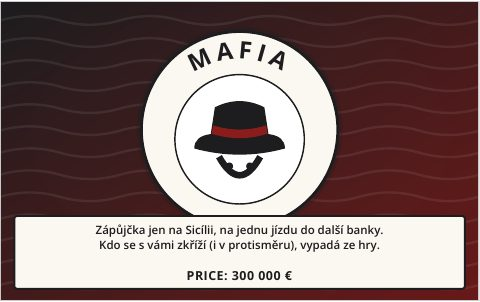
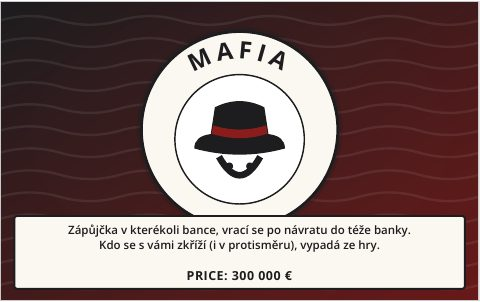
Add files via upload

Changed region(s): [[0.125, 0.745, 0.875, 0.7748]]

diff --git a/index.html b/index.html
@@ -5,6 +5,8 @@
 <meta name="viewport" content="width=device-width,initial-scale=1,viewport-fit=cover">
 <meta name="description" content="Italia – Explore with all senses. Desková hra pro 2–6 hráčů: pochutiny, vína a pamětihodnosti Itálie.">
 <meta name="theme-color" content="#14203b">
+<meta http-equiv="Cache-Control" content="no-cache, no-store, must-revalidate">
+<meta http-equiv="Pragma" content="no-cache">
 <meta name="apple-mobile-web-app-capable" content="yes">
 <meta name="mobile-web-app-capable" content="yes">
 <meta name="apple-mobile-web-app-status-bar-style" content="black-translucent">
@@ -427,7 +429,7 @@ label.fl input{border:2px solid var(--paper-3);border-radius:8px;padding:9px;fon
   const COLORS = [
     { id: 'blue', name: 'Modrá', hex: '#1f6fd1' }, { id: 'red', name: 'Červená', hex: '#d62828' },
     { id: 'green', name: 'Zelená', hex: '#2a9d3c' }, { id: 'yellow', name: 'Žlutá', hex: '#f2c418' },
-    { id: 'black', name: 'Černá', hex: '#1d1d1f' }, { id: 'purple', name: 'Fialová', hex: '#7b3fb8' }];
+    { id: 'grey', name: 'Šedá', hex: '#8e959c' }, { id: 'purple', name: 'Fialová', hex: '#a66ad8' }];
   const CARDS = {
     lodni: { name: 'Lodní linky', price: 50000, desc: 'Plavba trvá 1 krok místo 5. V cizím přístavu nemusíte na ostrov.' },
     aero: { name: 'Aerolinky', price: 50000, desc: 'Let trvá 1 krok místo 5. Na cizím letišti nemusíte na ostrov.' },
@@ -439,7 +441,7 @@ label.fl input{border:2px solid var(--paper-3);border-radius:8px;padding:9px;fon
     lklub: { name: 'Labužnický klub', price: 50000, club: 'G', desc: 'Umístíte na svou pochutinu. V bance Milano dostanete navíc 15 000 €. Kdo na políčku klubu zastaví, tomu vyplatíte 1 000 € za každou jeho pochutinu.' },
     sklub: { name: 'Someliérský klub', price: 50000, club: 'R', desc: 'Umístíte na své víno. V bance Ancona dostanete navíc 15 000 €. Kdo na políčku klubu zastaví, tomu vyplatíte 1 000 € za každé jeho víno.' },
     cklub: { name: 'Cestovatelský klub', price: 50000, club: 'W', desc: 'Umístíte na svou pamětihodnost. V bance Roma dostanete navíc 15 000 €. Kdo na políčku klubu zastaví, tomu vyplatíte 1 000 € za každou jeho pamětihodnost.' },
-    mafia: { name: 'Mafia', price: 300000, rent: true, desc: 'Zápůjčka jen na Sicílii, na jednu jízdu do další banky. Koho na trase potkáte, vypadá ze hry.' },
+    mafia: { name: 'Mafia', price: 300000, rent: true, desc: 'Zapůjčíte si ji v kterékoli bance na začátku tahu a vrací se, až se vrátíte do téže banky. Koho na trase potkáte (i v protisměru), vypadá ze hry.' },
   };
   const KIND_CARD = { W: 'pruvodce', R: 'somelier', G: 'labuznik' };
   const DICE_FEE = { 1: 5000, 2: 0, 3: 10000 };
@@ -619,7 +621,7 @@ label.fl input{border:2px solid var(--paper-3);border-radius:8px;padding:9px;fon
       if (r.base) pay(g, -1, p.i, r.base, `výplata v bance ${t.n}` + (r.mult ? ' (vč. násobků)' : ''));
       r.clubs.forEach(c => pay(g, -1, p.i, CLUB_BONUS, CARDS[c].name));
       if (!r.sum) log(g, `${p.name} je v bance ${t.n}, zatím bez výplaty.`);
-      if (p.mafia) { p.mafia = false; delete g.cards.mafia; log(g, `Mafia hráče ${p.name} se vrací.`); }
+      if (p.mafia && p.mafiaBank === i) { p.mafia = false; p.mafiaBank = null; delete g.cards.mafia; log(g, `${p.name} se vrátil do banky ${t.n} – Mafia se vrací.`); }
     } else if ((t.t === 'ship' || t.t === 'plane') && !p.train) {
       const c = t.t === 'ship' ? 'lodni' : 'aero', o = g.cards[c];
       if (o != null && o !== p.i && P(g, o).alive) pay(g, p.i, o, LINK_STOP, `zastavení na lince (${CARDS[c].name})`);
@@ -742,7 +744,7 @@ label.fl input{border:2px solid var(--paper-3);border-radius:8px;padding:9px;fon
       const def = CARDS[c];
       if (g.cards[c] != null) return;
       if (c === 'mafia') {
-        if (T[p.pos].loop !== 'sic' || g.phase !== 'turn' || p.mafia) return;
+        if (T[p.pos].t !== 'B' || g.phase !== 'turn' || p.mafia) return;
       }
       res.push({ c, name: def.name, price: def.price, can: p.cash >= def.price });
     });
@@ -752,10 +754,10 @@ label.fl input{border:2px solid var(--paper-3);border-radius:8px;padding:9px;fon
     const p = P(g, i), def = CARDS[c];
     if (g.cards[c] != null || p.cash < def.price) return false;
     if (def.club && (tile == null || g.own[tile] !== i || T[tile].t !== def.club)) return false;
-    if (c === 'mafia' && (T[p.pos].loop !== 'sic' || g.phase !== 'turn')) return false;
+    if (c === 'mafia' && (T[p.pos].t !== 'B' || g.phase !== 'turn')) return false;
     p.cash -= def.price; g.cards[c] = i;
     g.anim.push({ pay: true, from: i, to: -1, amt: def.price, why: def.name });
-    if (c === 'mafia') { p.mafia = true; log(g, `${p.name} si najímá Mafii za ${fmt(def.price)}! Platí do příští banky.`); }
+    if (c === 'mafia') { p.mafia = true; p.mafiaBank = p.pos; log(g, `${p.name} si v bance ${T[p.pos].n} najímá Mafii za ${fmt(def.price)}! Vrací se po návratu do téže banky.`); }
     else log(g, `${p.name} kupuje kartu ${def.name} za ${fmt(def.price)}.`);
     if (def.club) placeClub(g, i, c, tile);
     return true;
@@ -779,7 +781,7 @@ label.fl input{border:2px solid var(--paper-3);border-radius:8px;padding:9px;fon
   }
   function eliminate(g, i, why) {
     const p = P(g, i); if (!p.alive) return;
-    p.alive = false; p.mafia = false;
+    p.alive = false; p.mafia = false; p.mafiaBank = null;
     Object.keys(g.own).forEach(k => { if (g.own[k] === i) delete g.own[k]; });
     Object.keys(g.cards).forEach(c => { if (g.cards[c] === i) delete g.cards[c]; });
     fixClubs(g);
@@ -922,10 +924,19 @@ label.fl input{border:2px solid var(--paper-3);border-radius:8px;padding:9px;fon
     }
     let v = P(g, i).cash - before;
     if (!P(g, i).alive) return -1e9;
+    v += (g0.players.filter(q => q.alive).length - g.players.filter(q => q.alive).length) * 60000;   // Mafie vyřadila soupeře
     if (g.phase === 'buy' && g.cur === i) v += deep ? buyValue(g, i, g.offer) : 2500;
     const pos = P(g, i).pos;
     if (deep && T[pos] && T[pos].t === 'B') v += 500;
     return v;
+  }
+  // těžká úroveň: Mafii si najme, když nejbohatší soupeř je nablízku nebo ho výrazně předbíhá
+  function mafiaWorth(g, p) {
+    const opp = g.players.filter(q => q.alive && q.i !== p.i);
+    if (!opp.length) return false;
+    const leader = opp.reduce((a, b) => worth(g, a.i) > worth(g, b.i) ? a : b);
+    const near = opp.some(q => q.pos >= 0 && T[q.pos].loop === T[p.pos].loop && T[q.pos].t !== 'B');
+    return worth(g, leader.i) > worth(g, p.i) * 0.8 || near || Math.random() < 0.35;
   }
   function aiCards(g, p) {
     const L = lvl(p), own = k => kindCount(g, p.i, k);
@@ -939,7 +950,7 @@ label.fl input{border:2px solid var(--paper-3);border-radius:8px;padding:9px;fon
         else if (o.c === 'provincie' && regions >= 2 && spare > 15000) buyCard(g, p.i, o.c);
         else if (o.c === 'treni' && spare > 60000) buyCard(g, p.i, o.c);
         else if ((o.c === 'lodni' || o.c === 'aero') && spare > 80000) buyCard(g, p.i, o.c);
-        else if (o.c === 'mafia' && spare > 80000 && g.players.filter(q => q.alive).length > 2 && Math.random() < 0.3) buyCard(g, p.i, o.c);
+        else if (o.c === 'mafia' && spare >= 10000 && mafiaWorth(g, p)) buyCard(g, p.i, o.c);
       } else {
         const r = L === 1 ? 1.4 : 1;   // snadná kupuje později
         if (def.kind && own(def.kind) >= 6 && spare > 20000 * r) buyCard(g, p.i, o.c);
@@ -947,7 +958,7 @@ label.fl input{border:2px solid var(--paper-3);border-radius:8px;padding:9px;fon
         else if (o.c === 'provincie' && regions >= 2 && spare > 25000 * r) buyCard(g, p.i, o.c);
         else if (o.c === 'treni' && spare > 80000 * r) buyCard(g, p.i, o.c);
         else if ((o.c === 'lodni' || o.c === 'aero') && spare > 120000 * r) buyCard(g, p.i, o.c);
-        else if (o.c === 'mafia' && spare > 60000 && g.players.filter(q => q.alive).length > 2 && Math.random() < (L === 1 ? 0.6 : 0.4)) buyCard(g, p.i, o.c);
+        else if (o.c === 'mafia' && spare > (L === 1 ? 60000 : 30000) && Math.random() < (L === 1 ? 0.5 : 0.4)) buyCard(g, p.i, o.c);
       }
     }
     Object.keys(g.cards).forEach(c => { if (g.cards[c] === p.i && CARDS[c].club && !clubValid(g, c)) { const ts = clubTiles(g, p.i, c).sort((a, b) => T[b].price - T[a].price); if (ts.length) placeClub(g, p.i, c, ts[0]); } });
@@ -999,10 +1010,10 @@ label.fl input{border:2px solid var(--paper-3);border-radius:8px;padding:9px;fon
 <script>
 (function(){
 const E=window.ITALIA, D=E.D, T=E.T, NS="http://www.w3.org/2000/svg";
-const PCOL={blue:"#1f6fd1",red:"#d62828",green:"#2a9d3c",yellow:"#f2c418",black:"#1d1d1f",purple:"#7b3fb8"};
-const TRAILCOL={yellow:"#d4a800",black:"#3c3c40"};
-const CN={blue:"modrá",red:"červená",green:"zelená",yellow:"žlutá",black:"černá",purple:"fialová"};
-const ORDER=["blue","red","green","yellow","black","purple"];
+const PCOL={blue:"#1f6fd1",red:"#d62828",green:"#2a9d3c",yellow:"#f2c418",grey:"#8e959c",purple:"#a66ad8",black:"#8e959c"};
+const TRAILCOL={yellow:"#d4a800",grey:"#6b7178",black:"#6b7178"};
+const CN={blue:"modrá",red:"červená",green:"zelená",yellow:"žlutá",grey:"šedá",purple:"fialová",black:"šedá"};
+const ORDER=["blue","red","green","yellow","grey","purple"];
 const fmt=E.fmt, $=id=>document.getElementById(id);
 function el(tag,attrs,parent){const e=document.createElementNS(NS,tag);for(const k in attrs)e.setAttribute(k,attrs[k]);if(parent)parent.appendChild(e);return e;}
 function h(tag,props,...kids){const e=document.createElement(tag);if(props)for(const k in props){const v=props[k];if(v==null||v===false)continue;if(k.startsWith("on"))e.addEventListener(k.slice(2),v);else if(k==="html")e.innerHTML=v;else e.setAttribute(k,v===true?"":v);}
@@ -1127,7 +1138,7 @@ function drawPawns(){
     const e=el("g",{class:"pawn",transform:`translate(${(t.x+Math.cos(a)*off).toFixed(1)},${(t.y-8+Math.sin(a)*off).toFixed(1)}) scale(1.45)`});
     el("ellipse",{cx:0,cy:14,rx:13,ry:5,fill:"rgba(0,0,0,.35)"},e);
     el("path",{d:PAWN_D,fill:pc(p),stroke:on?"#ffd66b":"#1d1d1f","stroke-width":on?4:2},e);
-    if(p.mafia)el("circle",{cx:0,cy:-12,r:5,fill:p.color==="black"?"#fff":"#1d1d1f"},e);
+    if(p.mafia)el("circle",{cx:0,cy:-12,r:5,fill:"#1d1d1f"},e);
     order.push([on,e]);});});
   order.sort((a,b)=>a[0]-b[0]).forEach(([,e])=>gt.appendChild(e));
 }
@@ -1348,7 +1359,7 @@ function openCards(){
         else acts.appendChild(h("button",{disabled:p.cash<def.price,onclick:()=>{E.buyCard(g,p.i,c);close();play();}},`Koupit · ${fmt(def.price)}`));}
       if(owner===p.i&&def.club)acts.appendChild(h("button",{onclick:()=>{close();pickClubTile(p.i,c,k=>{E.placeClub(g,p.i,c,k);render();});}},E.clubValid(g,c)?`Přesunout klub (nyní ${T[g.clubs[c]].n})`:"Umístit klub"));
       if(owner!=null&&def.club&&E.clubValid(g,c))acts.appendChild(h("span",{class:"tag"},"klub na políčku "+T[g.clubs[c]].n));
-      else if(owner==null&&c==="mafia")acts.appendChild(h("span",{class:"err"},"Najmout si ji lze jen na Sicílii na začátku tahu."));
+      else if(owner==null&&c==="mafia")acts.appendChild(h("span",{class:"err"},"Zapůjčit si ji lze na začátku tahu, když stojíte v bance."));
       b.appendChild(h("div",{class:"item"},h("img",{class:"spec",src:`${SPECIMG[c]}.jpg`,alt:`Karta ${def.name}`,loading:"lazy"}),h("b",null,def.name),h("div",{class:"tags"},h("span",{class:"tag"+(owner!=null?" red":"")},owner!=null?"vlastní "+g.players[owner].name:"volná"),h("span",{class:"tag"},fmt(def.price))),h("p",{class:"note"},def.desc),acts));});
   });
 }
@@ -1436,6 +1447,7 @@ function openMenu(){
       h("button",{class:"btn soft",onclick:()=>{fast=!fast;close();renderPanel();toast(fast?"Tahy počítače jsou zrychlené.":"Normální rychlost.");}},fast?"Normální rychlost počítače":"Zrychlit tahy počítače"),
       ON?h("button",{class:"btn red",onclick:()=>{close();confirmBox("Opustit online hru? Na vašem místě bude zatím hrát počítač; vrátit se můžete tlačítkem „Pokračovat v online hře“.","Opustit",()=>{quitOnline();showSetup();});}},"Opustit online hru")
         :h("button",{class:"btn red",onclick:()=>{close();confirmBox("Ukončit rozehranou hru a začít novou?","Nová hra",()=>{clearSave();showSetup();});}},"Nová hra"));
+    b.append(h("p",{class:"note"},"Verze hry "+ITALIA_VERZE));
     if(ON)b.append(h("p",{class:"note"},`Online hra ${ON.code} · ${ON.host?"jste zakladatel – vaše zařízení řídí hru":"připojeno k zakladateli"}`));
     if(g&&(g.targetCash||g.targetTiles))b.append(h("p",{class:"note"},"Cíl hry: "+(g.targetCash?`hotovost ${fmt(g.targetCash)}`:`${g.targetTiles} políček`)+", nebo zůstat poslední ve hře."));
   });
@@ -1454,7 +1466,7 @@ function openRules(){sheet("Pravidla",b=>b.appendChild(h("div",{class:"rules",ht
 <li>Kdo vlastní všechny komodity regionu, region se podbarví jeho barvou a vybírá mýto 2 000 € za vjezd a 2 000 € za zastavení.</li>
 <li>Zastavení na cizím letišti či v přístavu na pevnině znamená další tah povinně na ostrov. Ostrov se musí objet aspoň jednou, dvakrát ne.</li>
 <li>Frecciarossa: nástup jen v bance za 24 000 €. Po dvou stanicích je u Bologni křižovatka – hráč si vybere, do které ze dvou dalších bank pojede. Pak se musí jet po zemi.</li>
-<li>Speciální karty kupujete na začátku tahu. Mafia jen na Sicílii.</li>
+<li>Speciální karty kupujete na začátku tahu. <b>Mafii</b> si zapůjčíte v kterékoli bance; vrací se, až se vrátíte do téže banky. Koho s ní na trase potkáte, vypadá ze hry.</li>
 <li><b>Sbírka komodit:</b> kdo vlastní 5–9 komodit jednoho druhu, má u nich dvojnásobnou výplatu v bance i poplatek Stop; od 10 komodit trojnásobnou.</li>
 <li><b>Labužník / Someliér / Průvodce</b> zdvojnásobí Stop i výplatu v bance za pochutiny / vína / pamětihodnosti – a to navíc k násobku za sbírku (např. 10 vín + Someliér = ×6).</li>
 <li><b>Labužnický / Someliérský / Cestovatelský klub</b> umístíte na své políčko daného druhu. V příslušné bance dostáváte navíc 15 000 €. Kdo na políčku klubu zastaví, dostane od vás 1 000 € za každou svou komoditu daného druhu. Platí se i do mínusu – dluh pak majitel vyrovná prodejem majetku na začátku svého tahu. Klub zaniká, když políčko prodáte nebo vyměníte – pak ho lze umístit znovu.</li>
@@ -1563,6 +1575,7 @@ function showSetup(){
       card.append(h("p",{class:"note"},"Hráči nastavení výše jako „Člověk“ (kromě prvního) se připojí ze svých telefonů pomocí kódu. Neobsazená místa převezme počítač, který hraje na zařízení zakladatele."));
     }
     card.append(h("button",{class:"btn soft",onclick:openRules},"Pravidla"));
+    card.append(h("p",{class:"note",style:"text-align:center;margin-top:-4px"},"Verze "+ITALIA_VERZE));
   };
   draw();
   S.append(heroEl(),card);
@@ -1876,6 +1889,7 @@ async function hostStart(){
   startGame(ng);commit();
 }
 
+const ITALIA_VERZE="1. 11. 2026 18:38";
 $("menuBtn").onclick=openMenu;
 function start(data){
   drawMap();
